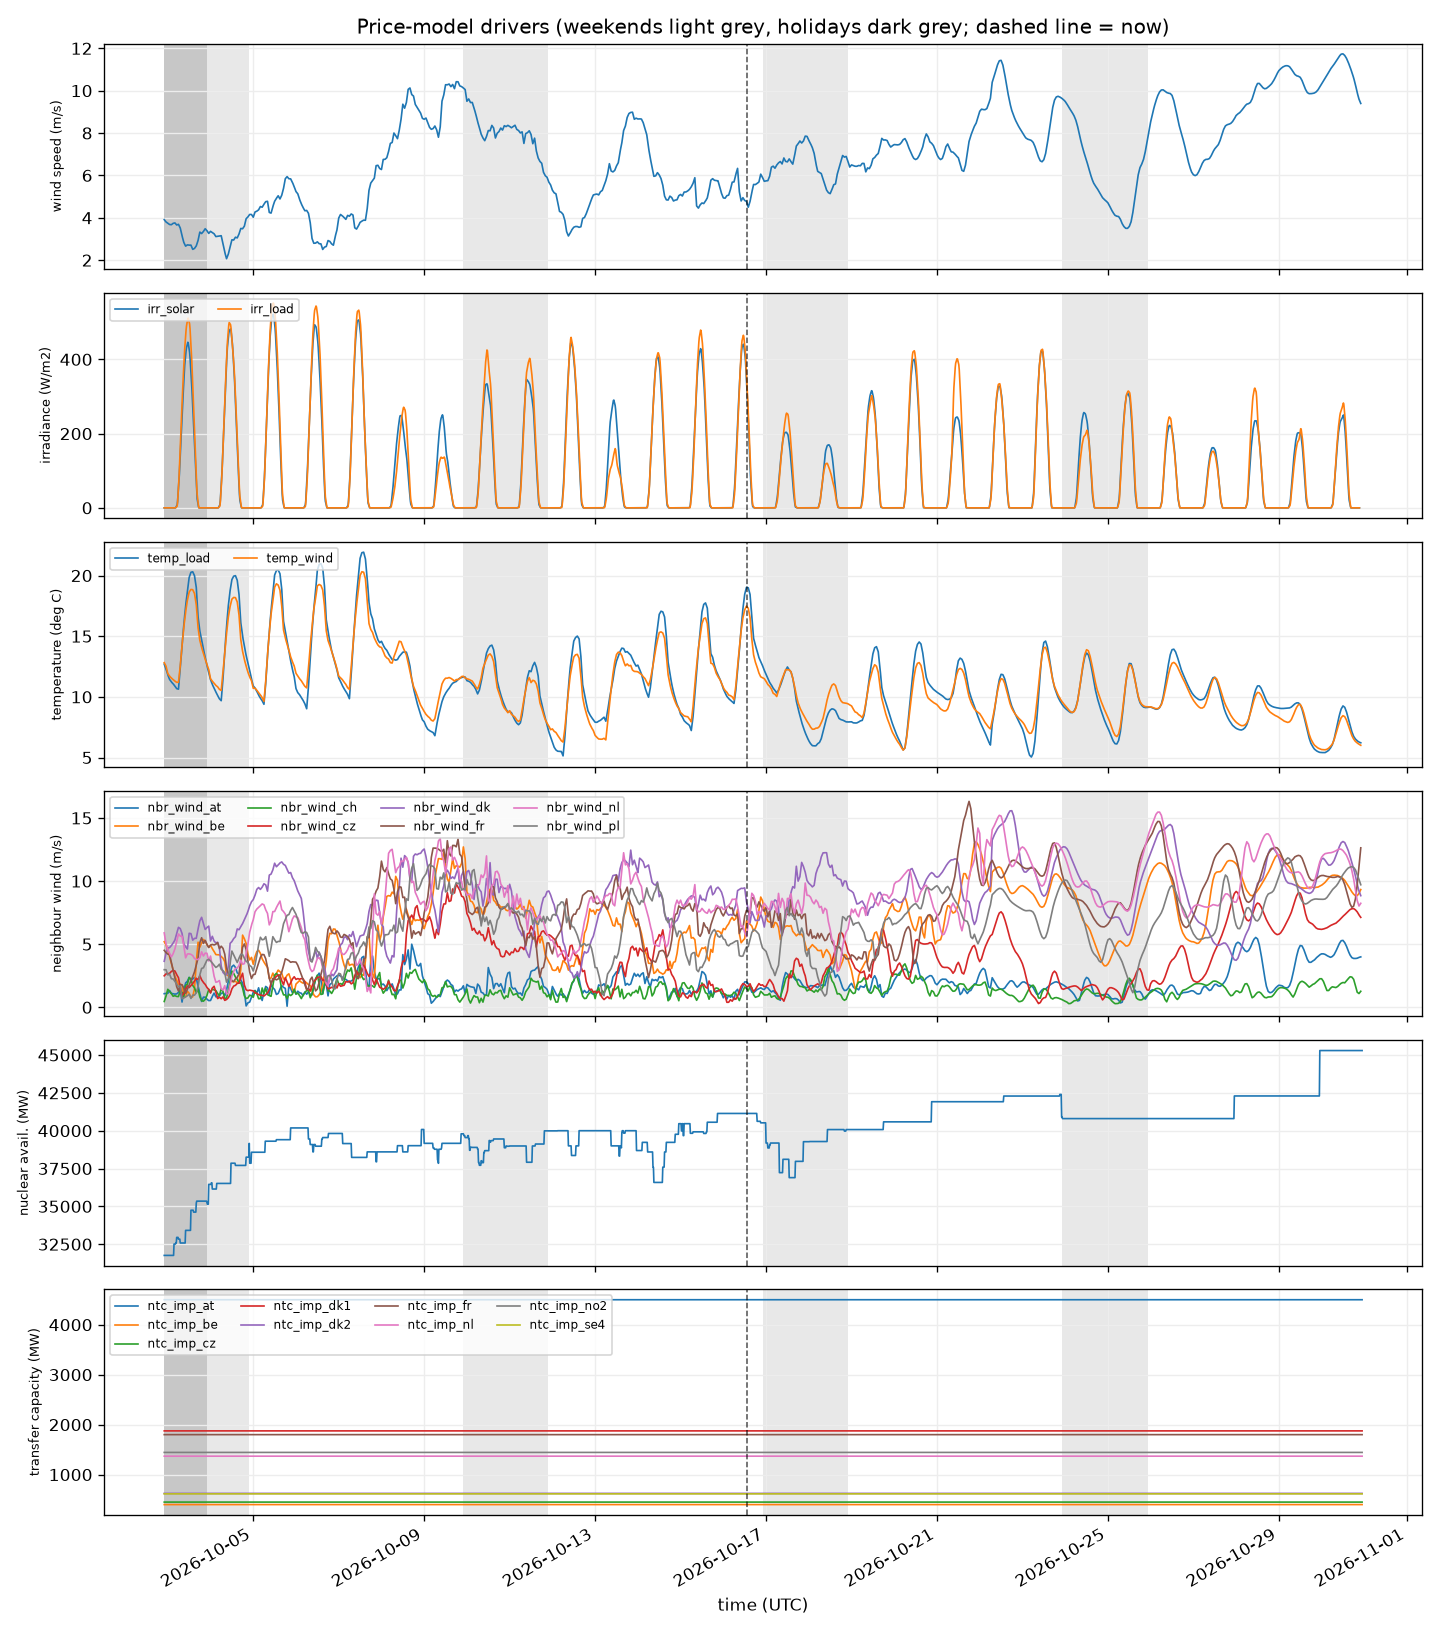
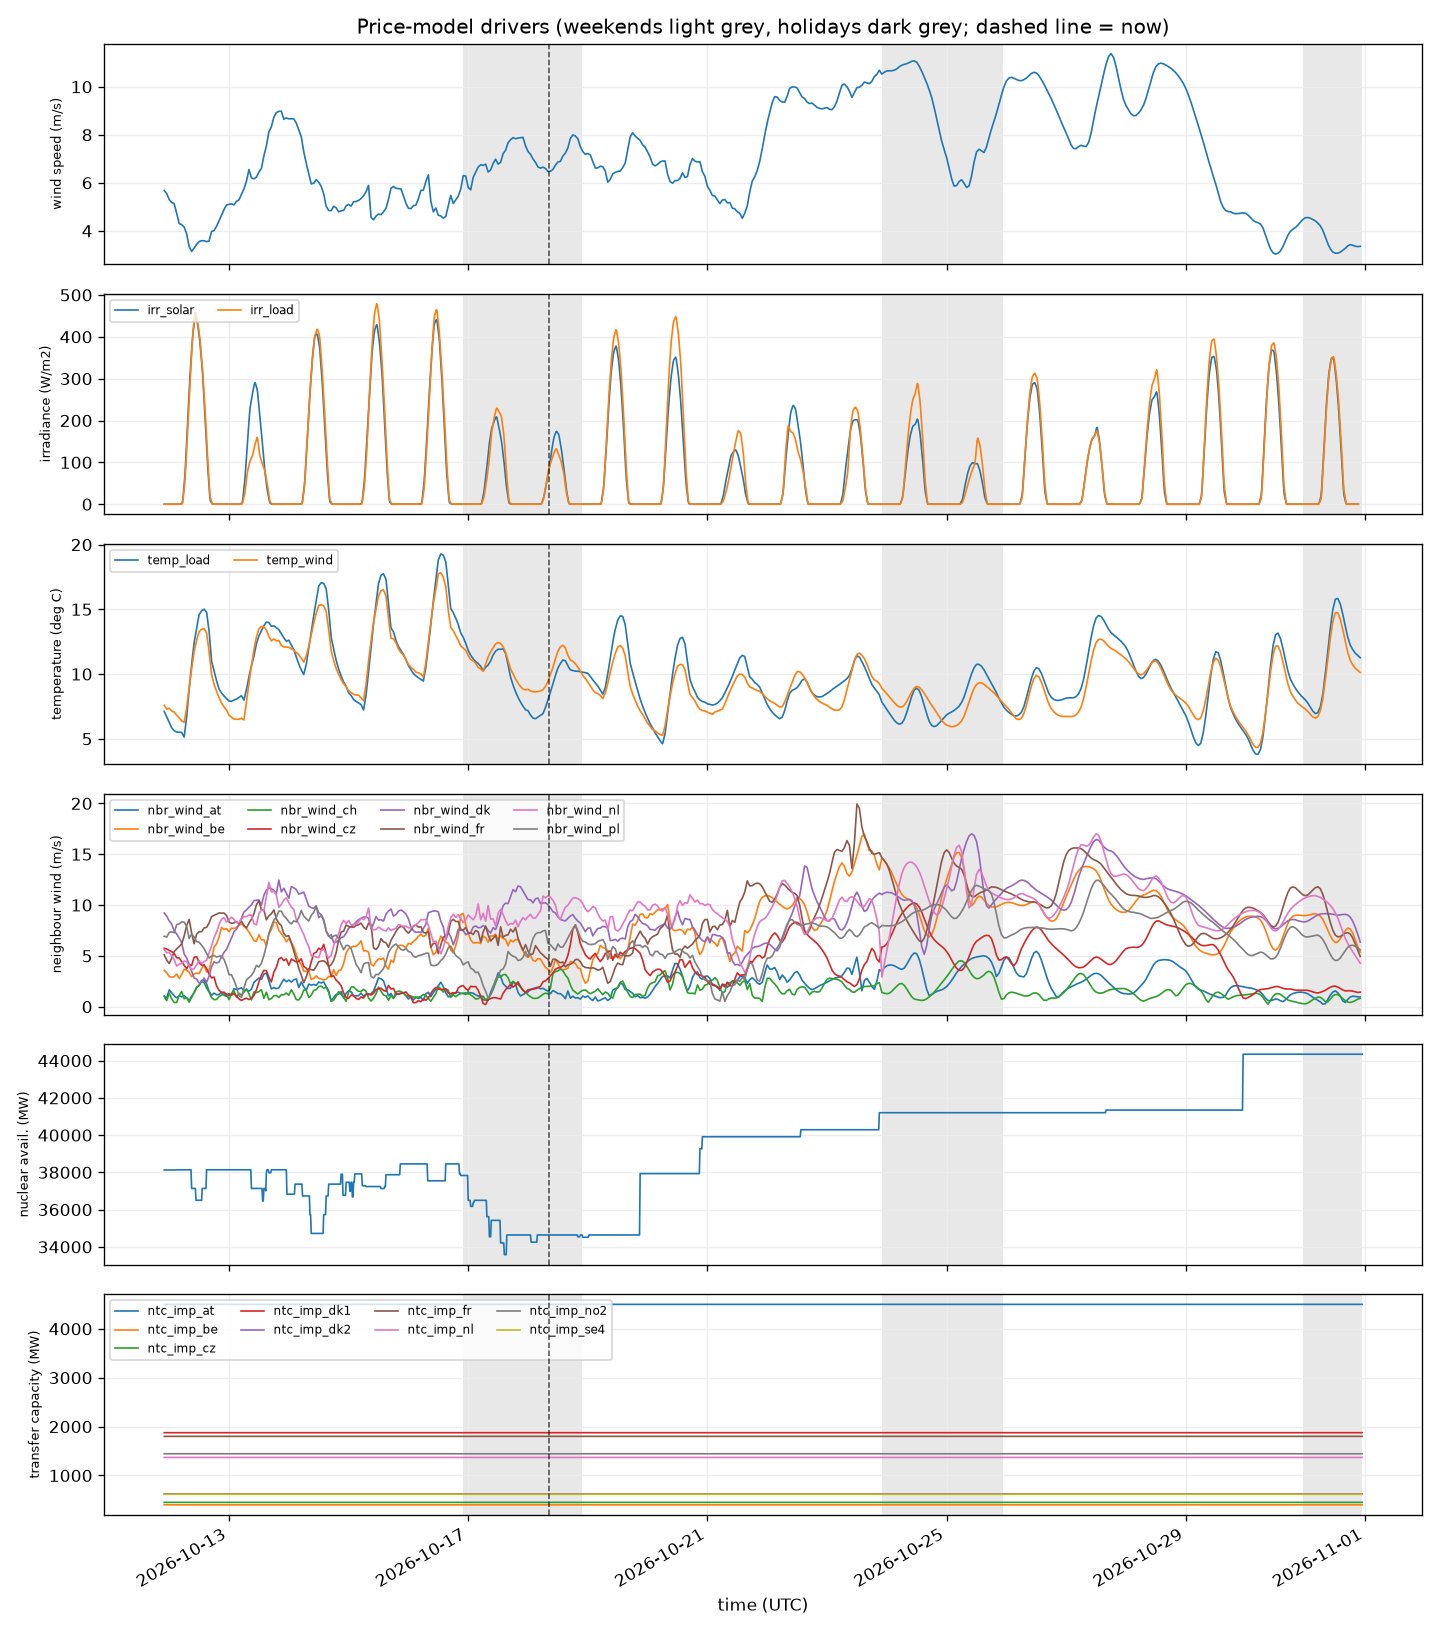
chore(forecast): refresh plots with one week of history

diff --git a/src/eex_forecast/config.py b/src/eex_forecast/config.py
@@ -69,7 +69,7 @@ HORIZON_DAYS = 14
 # days the 168 h price lag starts resolving to NaN on the near horizon, which does change the forecast.
 # The window start is snapped forward to a Europe/Berlin midnight, so the retained span is whole German
 # delivery days rather than exactly this many 24 h blocks.
-FORECAST_HISTORY_DAYS = 14
+FORECAST_HISTORY_DAYS = 7
 # Rolling window (days) that `eex update` re-fetches each run. ENTSO-E publishes actuals with a lag and
 # revises them, so re-pulling the last couple of weeks keeps the database current without a full backfill.
 DEFAULT_REFRESH_DAYS = 14
